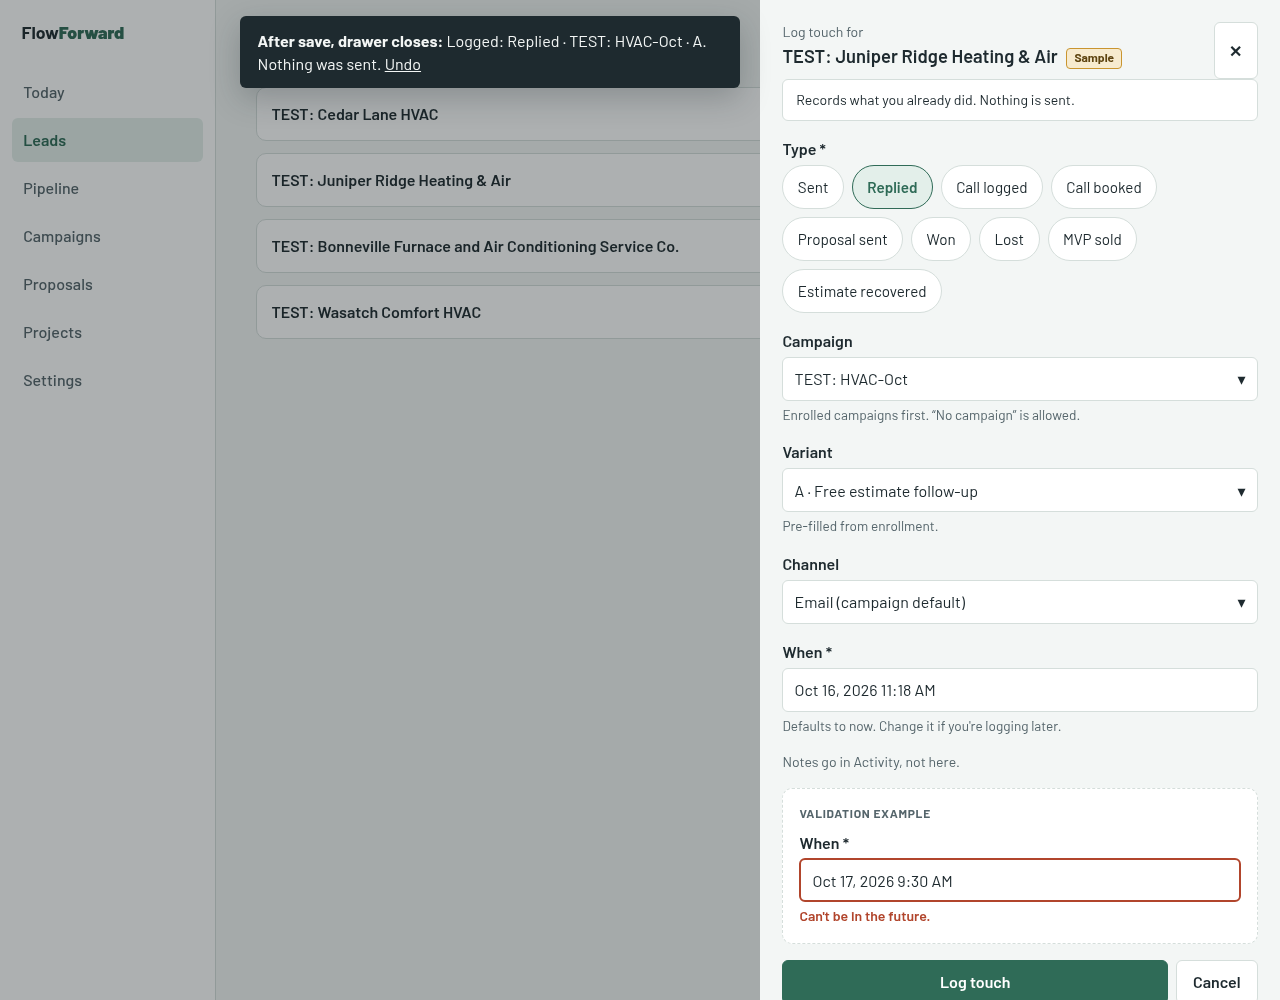
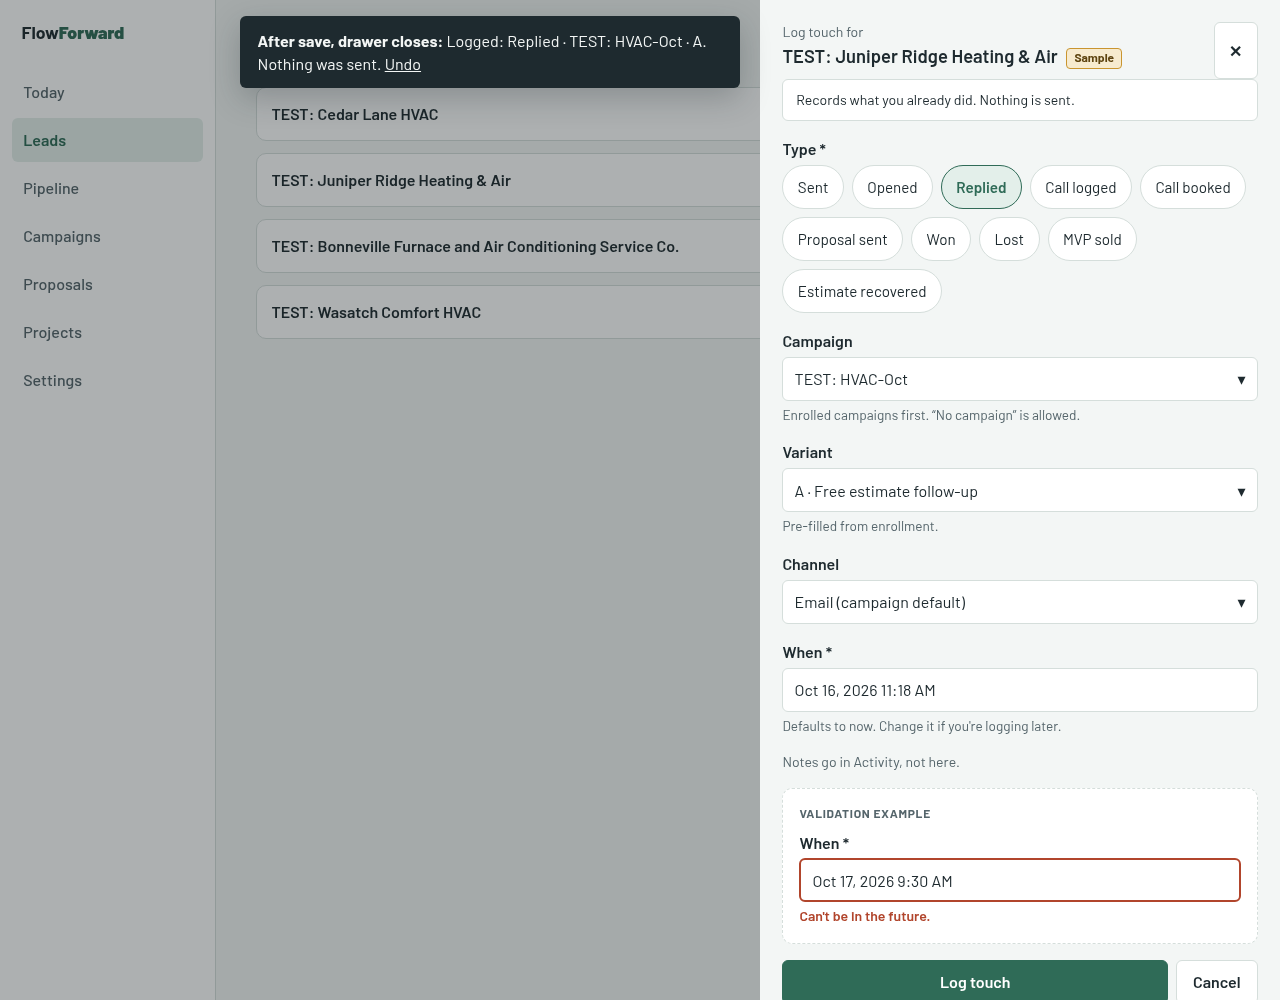
docs(design): record Summit rulings on F-006 §7; add Opened to Log touch

Changed region(s): [[0.6562, 0.155, 0.9688, 0.217]]

diff --git a/docs/design/campaigns/mock-gen.py b/docs/design/campaigns/mock-gen.py
@@ -137,7 +137,7 @@ def leads():
 <div class="opt"><span>Not in any campaign</span><span class="radio"></span></div></div></div>'''
     return page("Leads",b,sheet)
 def logtouch():
-    types=["Sent","Replied","Call logged","Call booked","Proposal sent","Won","Lost","MVP sold","Estimate recovered"]
+    types=["Sent","Opened","Replied","Call logged","Call booked","Proposal sent","Won","Lost","MVP sold","Estimate recovered"]
     tb=''.join(f'<span class="chip{" on" if x=="Replied" else ""}">{x}</span>' for x in types)
     bg='<header class="head"><div><h1>Leads</h1></div></header>'+''.join(f'<div class="card"><div class="name">{n}</div></div>' for n,*_ in leadsd)
     d=f'''<div class="overlay"><div class="drawer"><div class="lead"><div><p class="muted small">Log touch for</p><h2 style="overflow-wrap:anywhere">TEST: Juniper Ridge Heating &amp; Air <span class="sample">Sample</span></h2></div><span class="btn q" style="width:44px;padding:0">✕</span></div>

diff --git a/docs/design/campaigns.md b/docs/design/campaigns.md
@@ -113,12 +113,12 @@ Mocks: `log-touch-390.png` (bottom sheet) and `log-touch-1280.png` (side drawer)
 
 | Field | Control | Default | Validation |
 |---|---|---|---|
-| Type * | 44px chips, single select: Sent, Replied, Call logged, Call booked, Proposal sent, Won, Lost, MVP sold, Estimate recovered | none, must pick | required: "Pick what happened." |
+| Type * | 44px chips, single select: Sent, Opened, Replied, Call logged, Call booked, Proposal sent, Won, Lost, MVP sold, Estimate recovered | none, must pick | required: "Pick what happened." |
 | Campaign | select: the lead's enrolled campaigns first, then other Active ones, then "No campaign" | the lead's single Active enrolled campaign, else "No campaign" | optional; must exist. Choosing a campaign the lead isn't in shows "Also enroll this lead in TEST: …" (checked) |
 | Variant | select of that campaign's variants + "None" | the lead's enrolled variant | optional; disabled when Campaign is "No campaign"; must belong to the chosen campaign |
 | Channel | select of the 7 channels | the campaign's channel ("Email (campaign default)") | required; editable |
 | When * | native `datetime-local` | now (America/Denver) | required; not in the future ("Can't be in the future."); no more than 365 days back |
-| Recorded revenue | money input, dollars | empty | shown only for Won / MVP sold; optional; whole number ≥ 0 |
+| Recorded revenue | money input, dollars | empty | shown only for Won / MVP sold; optional; actual revenue only; whole number ≥ 0 |
 
 - Errors appear inline under the field (rust text, 2px rust border, `aria-describedby`). Focus moves to the first invalid field. **Log touch** stays enabled so the error can show. Source is always `manual`.
 - **Toast** (slate background, paper text): "Logged: Replied · TEST: HVAC-Oct · A. Nothing was sent." with **Undo**, which deletes that manual touch within 6 s. If saving fails, a rust error note in the form says "Couldn't log this touch. Try again." and the form keeps its values.
@@ -128,11 +128,12 @@ Mocks: `log-touch-390.png` (bottom sheet) and `log-touch-1280.png` (side drawer)
 
 1. **"Small sample" vs. the spec's guardrail.** #67 §3 defines "Directional (n<30)" with n = leads touched (30 confirmed Oct 16). This design uses that label as the small-sample note on every rate with n < 30, not only on variants, and keeps those rates visible.
 2. **List metrics.** §4 lists enrolled plus reply/booked/win rate, and the brief mentions sent. The list shows Enrolled, Touched (the rate denominator), and Replied/Booked/Won rates. Sent is the first funnel step on detail rather than a rate.
-3. **Which touch types can be logged by hand.** §1 lists 12 types. `opened`, `prototype_viewed` and `prototype_cta_clicked` aren't something Kelby can observe; they come from `pilot_events`/system. Log touch offers the other 9, and the API should accept `source = manual` only for those 9 (Canyon to confirm).
+3. **Which touch types can be logged by hand.** §1 lists 12 types. **Summit ruling (Oct 16):** `opened` is manually loggable (opens come from a manual log or the optional pixel), so Log touch offers **10** types. `prototype_viewed` and `prototype_cta_clicked` stay system-only (from `pilot_events`). The API should accept `source = manual` only for those 10.
 4. **Campaign is optional on a touch.** §1 allows a NULL `campaign_id` and §2 has a fallback rule, so "No campaign" is allowed. It defaults to the lead's single active campaign.
 5. **Timestamp limits.** The spec only says "defaulting to now". Added: not in the future and no more than 365 days back. Canyon may tighten this.
-6. **Revenue on Log touch.** §4's field list is type, campaign, variant and timestamp, but `revenue_cents` exists only on won/mvp_sold, and Recorded revenue needs a source. Added it as an optional field that appears only for those types. Drop it if Summit wants revenue entered elsewhere.
+6. **Revenue on Log touch.** §4's field list is type, campaign, variant and timestamp, but `revenue_cents` exists only on won/mvp_sold, and Recorded revenue needs a source. Added it as an optional field that appears only for those types. **Summit ruling (Oct 16):** keep it; it records actual revenue only (never estimated or expected).
 7. **Cost metrics vs. "no ROI".** Cost per lead and per booked call are in §3 as observed ratios, so they show when cost was entered, with numerator and denominator. There is no ROI or revenue-minus-cost figure anywhere.
 8. **SMS/phone channels vs. #40 email-only.** The channel enum includes sms and phone. These only label what Kelby did himself; nothing is sent. Pilot follow-up stays email-only.
-9. **Pipeline.** §4 names only the Leads view. Pipeline reuses the same filter chip/sheet and a campaign line on cards, with no kanban column.
-10. **Fixture dates.** The §3 fixture uses relative days (won on day 20). The mocks put day 0 on Sep 24, 2026 so no event falls after today (Oct 16).
+9. **Pipeline.** §4 names only the Leads view. Pipeline reuses the same filter chip/sheet and a campaign line on cards, with no kanban column. **Summit ruling (Oct 16):** the Pipeline chip is approved.
+10. **Phone tab order.** Campaigns takes a tab-bar slot (§1). **Summit ruling (Oct 16):** Delta confirms the final phone tab order.
+11. **Fixture dates.** The §3 fixture uses relative days (won on day 20). The mocks put day 0 on Sep 24, 2026 so no event falls after today (Oct 16).
